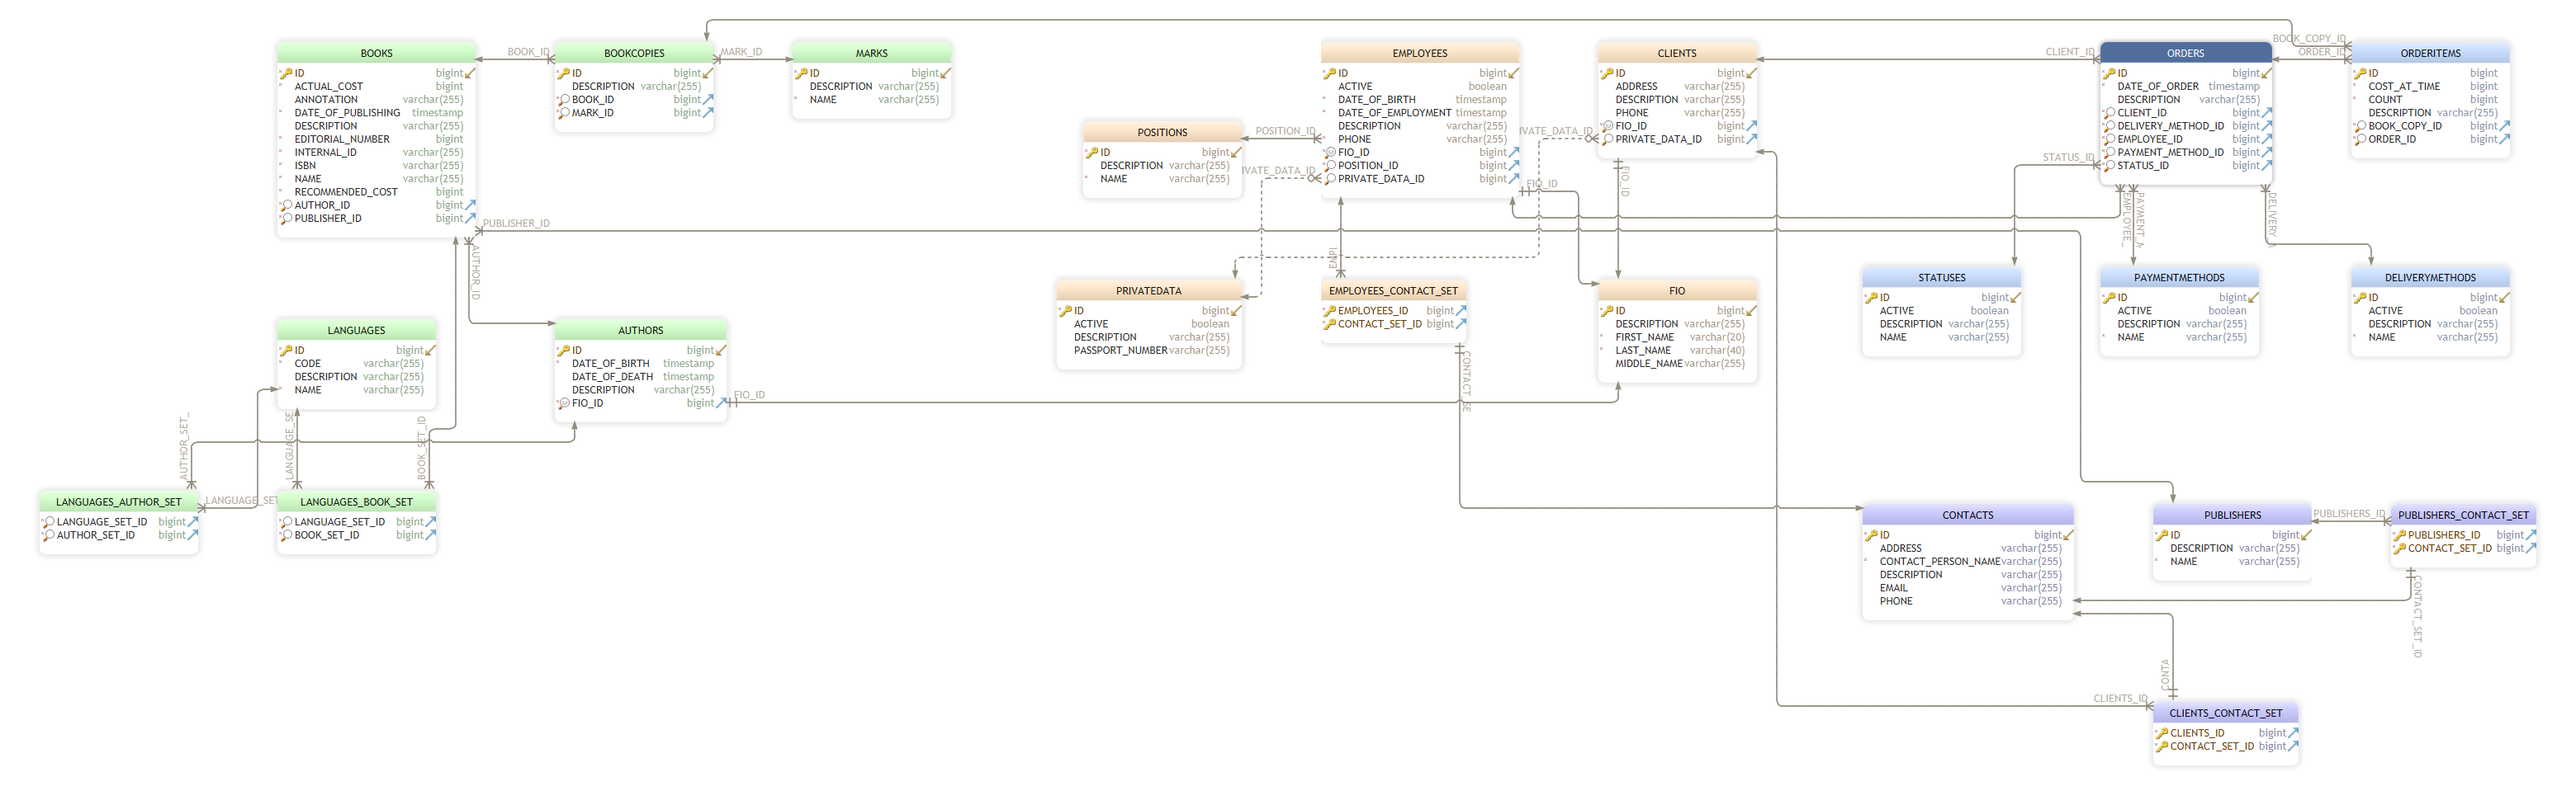
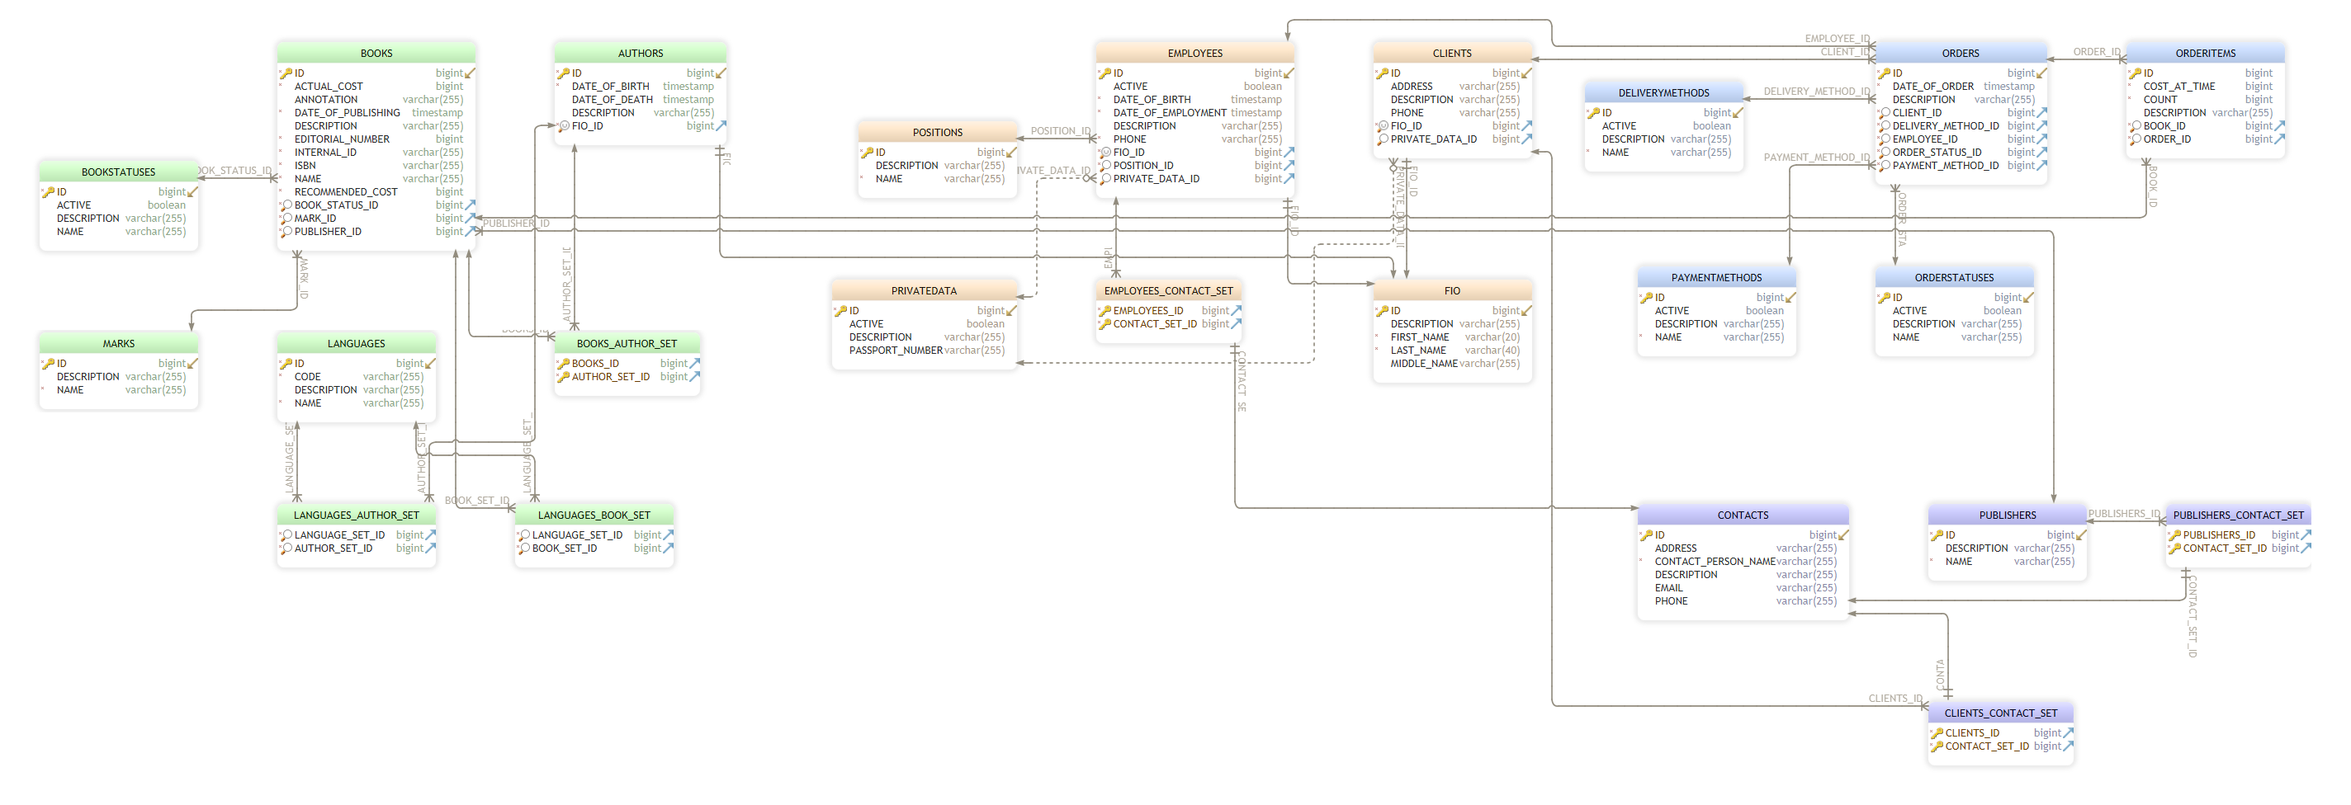
Removed BookCopies, made book - author many to many

diff --git a/src/main/java/praktikum/svzh/bookstore/service/OrderStatusService.java b/src/main/java/praktikum/svzh/bookstore/service/OrderStatusService.java
@@ -1,0 +1,34 @@
+package praktikum.svzh.bookstore.service;
+
+import lombok.extern.slf4j.Slf4j;
+import org.springframework.beans.factory.annotation.Autowired;
+import org.springframework.stereotype.Service;
+import praktikum.svzh.bookstore.entity.OrderStatus;
+import praktikum.svzh.bookstore.repository.OrderStatusRepository;
+
+import javax.annotation.PostConstruct;
+import java.util.stream.Stream;
+
+@Service
+@Slf4j
+public class OrderStatusService {
+
+    private final OrderStatusRepository repository;
+
+    @Autowired
+    public OrderStatusService(OrderStatusRepository repository) {
+        this.repository = repository;
+    }
+
+    @PostConstruct
+    private void init() {
+        log.info("Initializing initial data for Order Statuses...");
+        Stream.of("подлежит отправке", "будет получено лично", "отправлено", "получено", "отказано")
+                .forEach(name -> {
+                    OrderStatus orderStatus = new OrderStatus();
+                    orderStatus.setName(name);
+                    repository.save(orderStatus);
+                });
+        log.info("Done.");
+    }
+}

diff --git a/src/main/java/praktikum/svzh/bookstore/service/BookStatusService.java b/src/main/java/praktikum/svzh/bookstore/service/BookStatusService.java
@@ -1,0 +1,34 @@
+package praktikum.svzh.bookstore.service;
+
+import lombok.extern.slf4j.Slf4j;
+import org.springframework.beans.factory.annotation.Autowired;
+import org.springframework.stereotype.Service;
+import praktikum.svzh.bookstore.entity.BookStatus;
+import praktikum.svzh.bookstore.repository.BookStatusRepository;
+
+import javax.annotation.PostConstruct;
+import java.util.stream.Stream;
+
+@Service
+@Slf4j
+public class BookStatusService {
+
+    private final BookStatusRepository repository;
+
+    @Autowired
+    public BookStatusService(BookStatusRepository repository) {
+        this.repository = repository;
+    }
+
+    @PostConstruct
+    private void init() {
+        log.info("Initializing initial data for Book Statuses...");
+        Stream.of("в продаже", "зарезервирована", "продана")
+                .forEach(name -> {
+                    BookStatus bookStatus = new BookStatus();
+                    bookStatus.setName(name);
+                    repository.save(bookStatus);
+                });
+        log.info("Done.");
+    }
+}

diff --git a/src/main/java/praktikum/svzh/bookstore/entity/Book.java b/src/main/java/praktikum/svzh/bookstore/entity/Book.java
@@ -26,16 +26,18 @@ public class Book {
 
     private String annotation;
 
+    @ManyToOne(optional = false)
+    private Mark mark;
+
+    @ManyToOne(optional = false)
+    private BookStatus bookStatus;
+
     @Column(nullable = false)
     @Pattern(regexp = "^[A-Za-z0-9]{8}$")
     private String internalId;
 
-    @Column(nullable = false)
-    @OneToMany(mappedBy = "book", cascade = CascadeType.ALL)
-    private Set<BookCopy> bookCopySet = new HashSet<>();
-
-    @ManyToOne(optional = false)
-    private Author author;
+    @ManyToMany
+    private Set<Author> authorSet = new HashSet<>();
 
     @Column(nullable = false)
     private Long actualCost;

diff --git a/src/main/java/praktikum/svzh/bookstore/entity/OrderStatus.java b/src/main/java/praktikum/svzh/bookstore/entity/OrderStatus.java
@@ -3,12 +3,10 @@ package praktikum.svzh.bookstore.entity;
 import lombok.Data;
 
 import javax.persistence.*;
-import java.util.HashSet;
-import java.util.Set;
 
-@Entity(name="STATUSES")
+@Entity(name="ORDERSTATUSES")
 @Data
-public class Status {
+public class OrderStatus {
     @Id
     @GeneratedValue(strategy= GenerationType.IDENTITY)
     private Long id;
@@ -19,7 +17,4 @@ public class Status {
 
     @Column(columnDefinition = "boolean default false")
     private Boolean active;
-
-    @OneToMany(mappedBy = "status", cascade = CascadeType.ALL)
-    private Set<Order> orderSet = new HashSet<>();
 }

diff --git a/src/main/java/praktikum/svzh/bookstore/entity/Order.java b/src/main/java/praktikum/svzh/bookstore/entity/Order.java
@@ -4,8 +4,6 @@ import lombok.Data;
 
 import javax.persistence.*;
 import java.time.LocalDateTime;
-import java.util.HashSet;
-import java.util.Set;
 
 @Entity(name="ORDERS")
 @Data
@@ -29,11 +27,8 @@ public class Order {
     private Client client;
 
     @ManyToOne(optional = false)
-    private Status status;
+    private OrderStatus orderStatus;
 
     @Column(nullable = false)
     private LocalDateTime dateOfOrder;
-
-    @OneToMany(mappedBy = "order", cascade = CascadeType.ALL)
-    private Set<OrderItem> orderItemSet = new HashSet<>();
 }

diff --git a/src/main/java/praktikum/svzh/bookstore/entity/Author.java b/src/main/java/praktikum/svzh/bookstore/entity/Author.java
@@ -5,8 +5,6 @@ import lombok.Data;
 import javax.persistence.*;
 import java.time.LocalDateTime;
 import java.util.Collection;
-import java.util.HashSet;
-import java.util.Set;
 
 @Entity(name="AUTHORS")
 @Data
@@ -24,9 +22,6 @@ public class Author {
     private LocalDateTime dateOfBirth;
 
     private LocalDateTime dateOfDeath;
-
-    @OneToMany(mappedBy = "author", cascade = CascadeType.ALL)
-    private Set<Book> bookSet = new HashSet<>();
 
     @ManyToMany(mappedBy = "authorSet")
     private Collection<Language> languageSet;

diff --git a/src/main/java/praktikum/svzh/bookstore/entity/BookStatus.java b/src/main/java/praktikum/svzh/bookstore/entity/BookStatus.java
@@ -1,0 +1,22 @@
+package praktikum.svzh.bookstore.entity;
+
+import lombok.Data;
+
+import javax.persistence.Entity;
+import javax.persistence.GeneratedValue;
+import javax.persistence.GenerationType;
+import javax.persistence.Id;
+
+@Entity(name="BOOKSTATUSES")
+@Data
+public class BookStatus {
+    @Id
+    @GeneratedValue(strategy= GenerationType.IDENTITY)
+    private Long id;
+
+    private String description;
+
+    private String name;
+
+    private Boolean active;
+}

diff --git a/src/main/java/praktikum/svzh/bookstore/entity/DeliveryMethod.java b/src/main/java/praktikum/svzh/bookstore/entity/DeliveryMethod.java
@@ -3,8 +3,6 @@ package praktikum.svzh.bookstore.entity;
 import lombok.Data;
 
 import javax.persistence.*;
-import java.util.HashSet;
-import java.util.Set;
 
 @Entity(name="DELIVERYMETHODS")
 @Data
@@ -20,7 +18,4 @@ public class DeliveryMethod {
 
     @Column(columnDefinition = "boolean default false")
     private Boolean active;
-
-    @OneToMany(mappedBy = "deliveryMethod", cascade = CascadeType.ALL)
-    private Set<Order> orderSet = new HashSet<>();
 }

diff --git a/src/main/java/praktikum/svzh/bookstore/entity/PaymentMethod.java b/src/main/java/praktikum/svzh/bookstore/entity/PaymentMethod.java
@@ -3,8 +3,6 @@ package praktikum.svzh.bookstore.entity;
 import lombok.Data;
 
 import javax.persistence.*;
-import java.util.HashSet;
-import java.util.Set;
 
 @Entity(name="PAYMENTMETHODS")
 @Data
@@ -20,7 +18,4 @@ public class PaymentMethod {
 
     @Column(columnDefinition = "boolean default false")
     private Boolean active;
-
-    @OneToMany(mappedBy = "paymentMethod", cascade = CascadeType.ALL)
-    private Set<Order> orderSet = new HashSet<>();
 }

diff --git a/src/main/java/praktikum/svzh/bookstore/entity/Position.java b/src/main/java/praktikum/svzh/bookstore/entity/Position.java
@@ -3,8 +3,6 @@ package praktikum.svzh.bookstore.entity;
 import lombok.Data;
 
 import javax.persistence.*;
-import java.util.HashSet;
-import java.util.Set;
 
 @Entity(name="POSITIONS")
 @Data
@@ -17,7 +15,4 @@ public class Position {
 
     @Column(nullable = false)
     private String name;
-
-    @OneToMany(mappedBy = "position", cascade = CascadeType.ALL)
-    private Set<Employee> employeeSet = new HashSet<>();
 }

diff --git a/src/main/java/praktikum/svzh/bookstore/entity/Mark.java b/src/main/java/praktikum/svzh/bookstore/entity/Mark.java
@@ -3,7 +3,6 @@ package praktikum.svzh.bookstore.entity;
 import lombok.Data;
 
 import javax.persistence.*;
-import java.util.Set;
 
 @Entity(name="MARKS")
 @Data
@@ -16,7 +15,4 @@ public class Mark {
 
     @Column(nullable = false)
     private String name;
-
-    @OneToMany(mappedBy = "mark", cascade = CascadeType.ALL)
-    private Set<BookCopy> bookCopySet;
 }

diff --git a/src/main/java/praktikum/svzh/bookstore/entity/Employee.java b/src/main/java/praktikum/svzh/bookstore/entity/Employee.java
@@ -34,9 +34,6 @@ public class Employee {
     @OneToOne(cascade = CascadeType.ALL)
     private PrivateData privateData;
 
-    @OneToMany(mappedBy = "employee", cascade = CascadeType.ALL)
-    private Set<Order> orderSet = new HashSet<>();
-
     @Column(columnDefinition = "boolean default false")
     private Boolean active;
 
